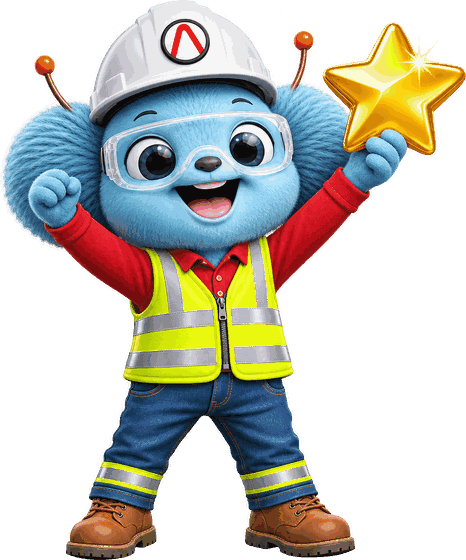
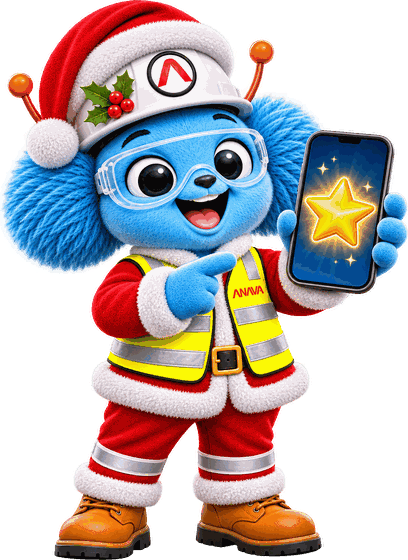
Tito navideño en todas las pantallas de la app
Claude-Session: https://claude.ai/code/session_01J17bWaNb4W7VBHmLAAEXHW

diff --git a/index.html b/index.html
@@ -132,7 +132,7 @@ const esc = (s) => String(s ?? "").replace(/[&<>"']/g, c => ({ "&": "&amp;", "<"
 const rid = (n = 10) => Array.from(crypto.getRandomValues(new Uint8Array(n)), b => "abcdefghjkmnpqrstuvwxyz23456789"[b % 31]).join("");
 async function sha(t, sal = "anava-estrella:") { const b = await crypto.subtle.digest("SHA-256", new TextEncoder().encode(sal + t)); return [...new Uint8Array(b)].map(x => x.toString(16).padStart(2, "0")).join(""); }
 const fmtF = (s) => new Date(s).toLocaleDateString("es-CO", { weekday: "short", day: "numeric", month: "short" });
-const tito = (n, alt, cls = "") => `<img class="tito ${cls}" src="tito-${n}.png" alt="${esc(alt)}" onerror="this.remove()">`;
+const tito = (n, alt, cls = "") => `<img class="tito ${cls}" src="tito-${n}.png?v=nav1" alt="${esc(alt)}" onerror="this.remove()">`;
 const corto = (n) => { const p = String(n || "").trim().split(/\s+/); return p[0] + (p[1] ? " " + p[1][0] + "." : ""); };
 const LS = { get(k) { try { return localStorage.getItem(k); } catch { return null; } }, set(k, v) { try { localStorage.setItem(k, v); } catch {} }, del(k) { try { localStorage.removeItem(k); } catch {} } };
 
